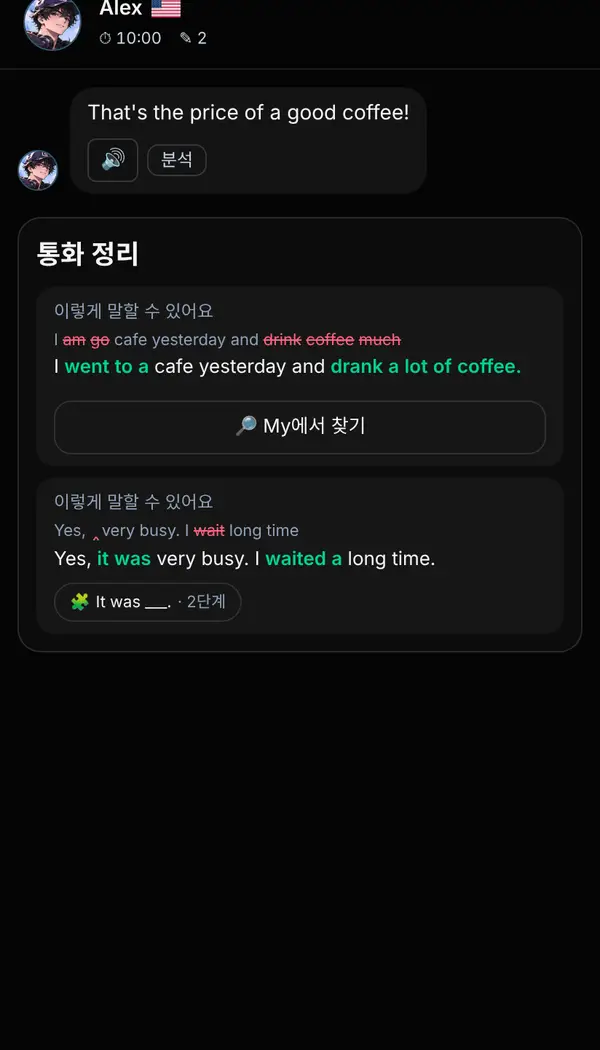
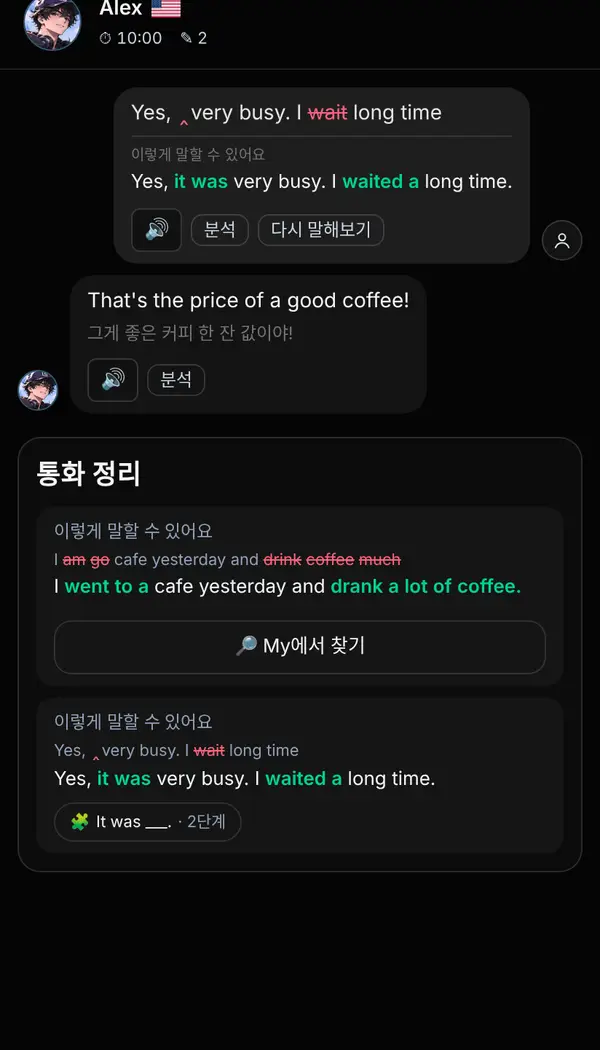
사용법: 통화·My를 지금 화면으로(🎓 튜터 수업 칸·자막 누르면 해석·통화 정리, My 탭 나눔·빈칸 쓰기), My 칸 영상은 빼고 그림으로 — 그림 ko부터
Claude-Session: https://claude.ai/code/session_01R73CvJxWHjkH4rDYekcpwa

diff --git a/src/lib/guide/content.ts b/src/lib/guide/content.ts
@@ -17,7 +17,7 @@
  * language missing there is served the English.
  */
 
-export const GUIDE_VERSION = "2026-11-01a";
+export const GUIDE_VERSION = "2026-11-03a";
 
 export type GuideTabId = "map" | "chat" | "roleplay" | "video" | "vocab" | "rooms" | "talk";
 
@@ -49,7 +49,7 @@ export type Guide = Record<GuideTabId, GuideTab>;
 export const GUIDE_SECTION_IDS: Record<GuideTabId, string[]> = {
   map: ["my.start", "my.next", "my.growth", "my.graph", "my.element", "my.ask", "my.map", "my.notes", "my.more"],
   chat: ["chat.next", "chat.talk", "chat.stuck", "chat.meaning", "chat.analyse", "chat.words", "chat.menu", "chat.history", "chat.more"],
-  roleplay: ["call.pack", "call.talk", "call.review", "call.ownline", "call.pause", "call.time"],
+  roleplay: ["call.pack", "call.talk", "call.coach", "call.review", "call.ownline", "call.pause", "call.time"],
   video: ["video.library", "video.subtitles", "video.bar", "video.ask", "video.import", "video.edit"],
   vocab: ["words.find", "words.saved", "words.learn", "words.script"],
   rooms: [
@@ -100,16 +100,11 @@ export type GuideChapter = { id: string; title: string; go: GuideGo; sections: (
 export const GUIDE_CLIPS: Record<string, string> = {
   "chat.analyse": "chat-ask",
   "video.ask": "video-ask",
-  // 2.79(2026-11-01): My 칸은 Bank 설명 영상(scripts/guide-clips.mjs bank-stage·bank-keep, 14개 언어)으로 — 예전 my.map "my-today"(대본 목록)는 화면이 없어짐.
-  "my.start": "bank-stage",
-  "my.next": "bank-keep",
+  // My 칸 영상(bank-stage·bank-keep)은 2026-11-03에 뺌 — 11-02 화면(네 갈래 칸·모두 펼침)이라, 지금 화면 그림으로(사용자 "일단 스크린샷으로"). 새 영상을 찍으면 다시.
 };
 
 /** 그 화면이 있는 빌드만 받는 영상: 칸 id → 빌드가 /api/guide에 보내는 표시(없으면 영상을 빼고 그림만). */
-export const GUIDE_CLIPS_SINCE: Record<string, string> = {
-  "my.start": "r283",
-  "my.next": "r283",
-};
+export const GUIDE_CLIPS_SINCE: Record<string, string> = {};
 
 /** 한 언어의 글에서 칸 하나(없으면 null). */
 export function guideSection(guide: Guide, id: string): (GuideSection & { id: string }) | null {
@@ -138,14 +133,14 @@ export const GUIDE_KO: Guide = {
       {
         "heading": "1. {ui:stagebankTitle}",
         "body": [
-          "‘{ui:planTitle}’ 하나를 ▶로 시작, 다 하면 n단계 화면."
+          "맨 위 ‘{ui:planTitle}’ 하나를 ▶로, 아래는 지금 단계의 문장구조 목록."
         ],
         "shot": "bank-stage-today"
       },
       {
         "heading": "2. {ui:keepTitle}",
         "body": [
-          "‘{ui:partVocab}’ · ‘{ui:examTitle}’ · ‘{ui:weakTitle}’ — 직접 써서 풀어요."
+          "‘{ui:partVocab}’ · ‘{ui:examTitle}’ · ‘{ui:weakTitle}’ — 빈칸에 직접 써서 풀어요."
         ],
         "shot": "bank-keep-quiz"
       },
@@ -159,14 +154,14 @@ export const GUIDE_KO: Guide = {
       {
         "heading": "4. 문장구조 수업",
         "body": [
-          "‘{ui:explanation}’ › ‘{ui:quizTag}’ › ‘{ui:homeTabTalk}’, 그다음 ‘{ui:recallTitle}’."
+          "‘{ui:explanation}’ › ‘{ui:quizTag}’ › ‘{ui:homeTabTalk}’ — 대화에선 빈칸 자리만 써요."
         ],
         "shot": "bank-stage-lesson"
       },
       {
         "heading": "5. 다음 단계로",
         "body": [
-          "문장구조 익힘 70% + ‘{ui:recallTitle}’ 70%면 단계 시험."
+          "단계 목록 아래 줄(문장구조 · ‘{ui:recallTitle}’)이 다 차면 단계 시험."
         ],
         "shot": "bank-stage-ladder"
       },
@@ -180,14 +175,14 @@ export const GUIDE_KO: Guide = {
       {
         "heading": "6. {ui:practiceWay}",
         "body": [
-          "n단계 화면에서 그림을 보고 연습 방식을 골라요."
+          "목록 위 버튼 → 🧩 문장구조 · 🎭 상황 · 📐 문법, 그림을 보고 골라요."
         ],
         "shot": "stage-ways"
       },
       {
         "heading": "7. 고친 줄",
         "body": [
-          "튜터가 고친 줄은 ‘{ui:weakTitle}’에 저절로 들어가요."
+          "튜터가 고친 줄은 {ui:keepTitle} ‘{ui:weakTitle}’에 저절로 들어가요."
         ],
         "shot": "bank-log-day"
       },
@@ -279,14 +274,21 @@ export const GUIDE_KO: Guide = {
       {
         "heading": "통화 화면",
         "body": [
-          "위엔 튜터, 아래엔 나. 💬 ‘{ui:roleplayCaptions}’ · 💡 ‘{ui:missionHint}’ · 🙉 ‘{ui:roleplayMissed}’."
+          "위엔 튜터, 아래엔 나. 💬 ‘{ui:roleplayCaptions}’(줄을 누르면 해석) · 💡 ‘{ui:missionHint}’ · 🙉 ‘{ui:roleplayMissed}’."
         ],
         "shot": "real-call"
       },
       {
+        "heading": "🎓 {ui:callCoach}",
+        "body": [
+          "켜면 튜터가 큰 실수만 짚고 다시 말해 보게 해요. 고친 말은 내 얼굴 아래 카드로."
+        ],
+        "shot": "call-coach"
+      },
+      {
         "heading": "통화가 끝나면",
         "body": [
-          "‘{ui:callRecapTitle}’의 🧩·🔤를 누르면 내 문장으로 수업해요."
+          "대본을 옆으로 넘겨 보고(튜터 줄 해석 포함), 맨 끝 ‘{ui:callRecapTitle}’의 🧩·🔤로 내 문장 수업."
         ],
         "shot": "call-recap"
       },
@@ -519,14 +521,14 @@ export const GUIDE_EN: Guide = {
       {
         "heading": "1. {ui:stagebankTitle}",
         "body": [
-          "Start one thing in ‘{ui:planTitle}’ with ▶; when done, the stage screen."
+          "Start the one thing at the top, ‘{ui:planTitle}’, with ▶; below it, this stage’s sentence structures."
         ],
         "shot": "bank-stage-today"
       },
       {
         "heading": "2. {ui:keepTitle}",
         "body": [
-          "‘{ui:partVocab}’ · ‘{ui:examTitle}’ · ‘{ui:weakTitle}’ — type your answers."
+          "‘{ui:partVocab}’ · ‘{ui:examTitle}’ · ‘{ui:weakTitle}’ — type each answer in the blank."
         ],
         "shot": "bank-keep-quiz"
       },
@@ -540,14 +542,14 @@ export const GUIDE_EN: Guide = {
       {
         "heading": "4. Sentence-pattern lessons",
         "body": [
-          "‘{ui:explanation}’ › ‘{ui:quizTag}’ › ‘{ui:homeTabTalk}’, then ‘{ui:recallTitle}’."
+          "‘{ui:explanation}’ › ‘{ui:quizTag}’ › ‘{ui:homeTabTalk}’ — in the talk you type only the blank."
         ],
         "shot": "bank-stage-lesson"
       },
       {
         "heading": "5. Next stage",
         "body": [
-          "Patterns learned 70% + ‘{ui:recallTitle}’ 70% unlock the stage test."
+          "When the line under the stage list (structures · ‘{ui:recallTitle}’) fills up, take the stage test."
         ],
         "shot": "bank-stage-ladder"
       },
@@ -561,14 +563,14 @@ export const GUIDE_EN: Guide = {
       {
         "heading": "6. {ui:practiceWay}",
         "body": [
-          "On the stage screen, pick how to practise from pictures."
+          "Button above the list → 🧩 structures · 🎭 situations · 📐 grammar, picked from pictures."
         ],
         "shot": "stage-ways"
       },
       {
         "heading": "7. Fixed lines",
         "body": [
-          "Lines the tutor fixed go to ‘{ui:weakTitle}’ by themselves."
+          "Lines the tutor fixed go to {ui:keepTitle} ‘{ui:weakTitle}’ by themselves."
         ],
         "shot": "bank-log-day"
       },
@@ -660,14 +662,21 @@ export const GUIDE_EN: Guide = {
       {
         "heading": "The call screen",
         "body": [
-          "Tutor above, you below. 💬 ‘{ui:roleplayCaptions}’ · 💡 ‘{ui:missionHint}’ · 🙉 ‘{ui:roleplayMissed}’."
+          "Tutor above, you below. 💬 ‘{ui:roleplayCaptions}’ (tap the line for a translation) · 💡 ‘{ui:missionHint}’ · 🙉 ‘{ui:roleplayMissed}’."
         ],
         "shot": "real-call"
       },
       {
+        "heading": "🎓 {ui:callCoach}",
+        "body": [
+          "Turn it on and the tutor points out only big mistakes and has you say it again. Fixes show as a card under your face."
+        ],
+        "shot": "call-coach"
+      },
+      {
         "heading": "After the call",
         "body": [
-          "Tap 🧩 or 🔤 in ‘{ui:callRecapTitle}’ for a lesson on your own sentence."
+          "Swipe through the transcript (tutor lines translated), then 🧩 or 🔤 in ‘{ui:callRecapTitle}’ at the end for a lesson on your sentence."
         ],
         "shot": "call-recap"
       },

diff --git a/src/app/api/guide/route.ts b/src/app/api/guide/route.ts
@@ -34,6 +34,8 @@ const RETIRED_MY_SECTIONS = ["my.next", "my.ask"];
 const RETIRED_MY_SECTIONS_283 = ["my.ask"];
 /** 오늘의 팩을 뺀 빌드(`r279=1`, 2.76 — 무료는 대본만·대본 플랜, 2026-10-28)에는 팩 칸을 뺀다. */
 const RETIRED_PACK_SECTIONS = ["call.pack"];
+/** 🎓 튜터 수업(2026-11-02)은 2.79(`r283=1`)부터 — 그 전 빌드엔 칸째 뺀다(칸 순서로 이름을 붙이는 옛 빌드가 어긋나지 않게 tabs에서도). */
+const COACH_SECTIONS = ["call.coach"];
 /** 아이콘 묶음(2026-10-23) — 그 화면이 있는 빌드(`icons=1`)만. */
 const ICON_SECTIONS = ["people.icons"];
 
@@ -187,11 +189,15 @@ export async function GET(request: NextRequest) {
   const withIcons = request.nextUrl.searchParams.get("icons") === "1";
   const hiddenIds = [...(withGame ? [] : GAME_SECTIONS), ...(withIcons ? [] : ICON_SECTIONS)];
   // 묶음(chapters)에서만 뺀다 — `tabs`는 칸 순서가 옛 빌드와 같아야 해서 그대로 둔다.
-  const chapterHidden = [...hiddenIds, ...(r283 ? RETIRED_MY_SECTIONS_283 : r278 ? RETIRED_MY_SECTIONS : []), ...(r279 ? RETIRED_PACK_SECTIONS : [])];
+  const chapterHidden = [...hiddenIds, ...(r283 ? RETIRED_MY_SECTIONS_283 : r278 ? RETIRED_MY_SECTIONS : []), ...(r279 ? RETIRED_PACK_SECTIONS : []), ...(r283 ? [] : COACH_SECTIONS)];
   const hiddenAt = hiddenIds.map((id) => GUIDE_SECTION_IDS.rooms.indexOf(id)).filter((index) => index >= 0);
-  const current: Guide = hiddenAt.length
+  const coachAt = r283 ? -1 : GUIDE_SECTION_IDS.roleplay.indexOf("call.coach");
+  const withRooms: Guide = hiddenAt.length
     ? { ...full, rooms: { ...full.rooms, sections: full.rooms.sections.filter((_, index) => !hiddenAt.includes(index)) } }
     : full;
+  const current: Guide = coachAt >= 0
+    ? { ...withRooms, roleplay: { ...withRooms.roleplay, sections: withRooms.roleplay.sections.filter((_, index) => index !== coachAt) } }
+    : withRooms;
   const language = asked === "ko" || asked === "en" || translated ? asked : "en";
   // 2.68 이하는 탭이 "사람·말하는 방"이고 단체방·자유 대화·참여 방식이 없다: `rooms=269`를
   // 보내지 않으면 그 빌드가 보던 말하는 방 안내(스냅숏)를 준다.

diff --git a/hub/inbox.md b/hub/inbox.md
@@ -220,9 +220,6 @@
 - 2026-11-02 watch → dev: [ai] src/components/RoleplayScreen.tsx:308 — 통화 끝난 뒤 끝 화면에서 저장될 때마다 activeSecs가 늘어남 (finished면 끝난 순간 값 고정).
 - 2026-11-02 watch → dev: [my] src/components/notes/NotebookSection.tsx:276 — openNotes를 화면이 떠 있을 때만 받아 My가 뜨기 전에 온 신호(?screen=vocab)를 놓침 (뜰 때 takeAppIntent("openNotes")면 focusQuizbankWords·setTab("keep")).
 - 2026-11-02 watch → dev: [my] src/components/studyMap/FrameLesson.tsx:195 — 표현·문법 수업(frame 없음)은 퀴즈가 없어 대화 줄도 없으면 설명 → 바로 끝 화면, dayLog 0/0 → 카드에 ↻ 0/0 (turns·questions 둘 다 없으면 결과 안 남기고 닫기, lastResultFor는 total 0 건너뛰기).
-- 2026-11-02 watch → dev: [my] src/lib/curriculum/fixedLessons/toQuiz.ts:34 — spaceAround가 한국어(낱말에 붙는 조사·어미 조각)에도 빈칸 앞뒤 한 칸 → "커피 를 마셔요" (앞뒤가 붙는 조각이면 띄우지 않기, ko 테스트 추가). major
-- 2026-11-02 watch → dev: [my] src/lib/server/expressionCards.ts:80 — 첫 생성 실패 시 아무것도 안 남겨 요청마다 6,000토큰 모델 재호출·동시 잠금 없음 (실패 표시·하루 한 번 재시도·잠금). major
-- 2026-11-02 watch → dev: [my] src/app/api/curriculum/option-notes/route.ts:76 — 고르기 문장(노트 고친 줄·통화 내 줄 포함 가능)을 공유 KV quiznotes:v1에 180일 저장 → 학습자 문장 저장 규칙 위반 (u|·장면 문장은 보내지 않거나 저장 안 함). major
 - 2026-11-02 watch → dev: [my] src/app/api/curriculum/option-notes/route.ts:65 — 아무 입력이나 모델 호출 + 공유 저장, 하루 한도·실제 문제 확인 없음 (한도·검증).
 - 2026-11-02 watch → dev: [ai] src/components/RoleplayScreen.tsx:253 — 해석 버튼은 뺐는데 저장된 켬 값을 계속 읽어 통화 중 줄마다 번역 호출, 끌 방법 없음 (예전 값 무시).
 - 2026-11-02 watch → dev: [ai] src/components/RoleplayPast.tsx:53 — 돌아보기 열 때마다 튜터 줄 다시 번역, 저장 안 함 (받은 번역 저장).

diff --git a/hub/log/2026-11.md b/hub/log/2026-11.md
@@ -1283,3 +1283,10 @@
 - 광고 안 6개(반영돼 뺀 것 1, 새 1 표현 카드 네이티브 +4,641원), 지금 +781,303 → 넣으면 +894,840원/1,000명.
 - 화면 점검: 오늘 이미 돌아 건너뜀.
 - 구조: 변화 없음
+
+## 2026-11-03 · dev · 변경 감시 major 셋 고침 + 통화·My 사용법 지금 화면으로
+- major: toQuiz spaceAround 한국어 제외(조사가 붙는 빈칸, 테스트) · expressionCards 첫 생성 실패도 재시도 표시(실패 30분·빠진 것 하루, 요청마다 모델 안 부름) · 고르기 보기 뜻: 학습자 줄 재료(gaps 고친 줄·시험 통화 줄 → QuizSource own → choose mine)는 서버가 저장 안 함(quiznotes:v1에 안 남김). 서버 바로, mine 표시는 앱 빌드.
+- 사용법(서버 바로, 2.79부터 보이는 글): My — 오늘 할 것 + 단계 목록, Quizbank 빈칸 쓰기, 수업 대화는 빈칸만, 다음 단계 줄, 방식 🧩·🎭·📐, 고친 줄 → Quizbank 다시 보기. 통화 — 자막 누르면 해석, **🎓 튜터 수업 칸 새로(call.coach, 2.78 이하엔 칸째 뺌)**, 끝나면 대본 넘기기 + 통화 정리. My 칸 영상(bank-stage·bank-keep)은 예전 화면이라 빼고 그림으로(사용자 "일단 스크린샷으로"). 12개 언어 번역은 손으로(translate-guide 키 없음).
+- 그림: capture-whats-new `guide-1103`(real-call·call-coach·call-recap·stage-ways) 14개 언어.
+- 학습 점검: 화면 변화 없음(글·그림만).
+- 구조: 변화 없음
